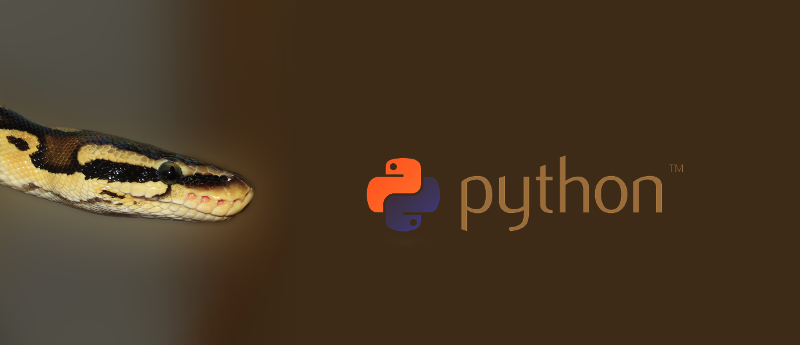
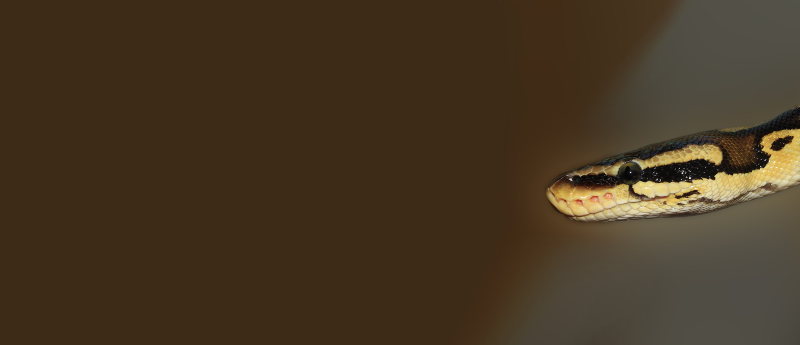
Updated title tags to be more flexible, changed top of the blog to be more readable

diff --git a/website/static/css/clean-blog.min.css b/website/static/css/clean-blog.min.css
@@ -2,4 +2,4 @@
  * Start Bootstrap - Clean Blog v4.0.0-beta (https://startbootstrap.com/template-overviews/clean-blog)
  * Copyright 2013-2017 Start Bootstrap
  * Licensed under MIT (https://github.com/BlackrockDigital/startbootstrap-clean-blog/blob/master/LICENSE)
- */body{font-size:20px;color:#333;font-family:Lora,'Times New Roman',serif}p{line-height:1.5;margin:30px 0}p a{text-decoration:underline}h1,h2,h3,h4,h5,h6{font-weight:800;font-family:'Open Sans','Helvetica Neue',Helvetica,Arial,sans-serif}a{color:#333;-webkit-transition:all .2s;-moz-transition:all .2s;transition:all .2s}a:focus,a:hover{color:#0085a1}a img:focus,a img:hover{cursor:zoom-in}blockquote{font-style:italic;color:#777}.section-heading{font-size:36px;font-weight:700;margin-top:60px}.caption{font-size:14px;font-style:italic;display:block;margin:0;padding:10px;text-align:center;border-bottom-right-radius:5px;border-bottom-left-radius:5px}::-moz-selection{color:#fff;background:#0085a1;text-shadow:none}::selection{color:#fff;background:#0085a1;text-shadow:none}img::selection{color:#fff;background:0 0}img::-moz-selection{color:#fff;background:0 0}body{-webkit-tap-highlight-color:#0085a1}#mainNav{position:absolute;border-bottom:1px solid #eee;background-color:#fff;font-family:'Open Sans','Helvetica Neue',Helvetica,Arial,sans-serif}#mainNav .navbar-brand{font-weight:800;color:#777}#mainNav .navbar-toggler{font-size:12px;font-weight:800;padding:13px;text-transform:uppercase;color:#777}#mainNav .navbar-nav>li.nav-item>a{font-size:12px;font-weight:800;letter-spacing:1px;text-transform:uppercase}@media only screen and (min-width:992px){#mainNav{border-bottom:1px solid transparent;background:0 0}#mainNav .navbar-brand{padding:15px 20px;color:#fff}#mainNav .navbar-brand:focus,#mainNav .navbar-brand:hover{color:rgba(255,255,255,.8)}#mainNav .navbar-nav>li.nav-item>a{padding:15px 20px;color:#fff}#mainNav .navbar-nav>li.nav-item>a:focus,#mainNav .navbar-nav>li.nav-item>a:hover{color:rgba(255,255,255,.8)}}@media only screen and (min-width:1170px){#mainNav{-webkit-transition:background-color .2s;-moz-transition:background-color .2s;transition:background-color .2s;-webkit-transform:translate3d(0,0,0);-moz-transform:translate3d(0,0,0);-ms-transform:translate3d(0,0,0);-o-transform:translate3d(0,0,0);transform:translate3d(0,0,0);-webkit-backface-visibility:hidden}#mainNav.is-fixed{position:fixed;top:-77px;-webkit-transition:-webkit-transform .2s;-moz-transition:-moz-transform .2s;transition:transform .2s;border-bottom:1px solid #fff;background-color:rgba(255,255,255,.9)}#mainNav.is-fixed .navbar-brand{color:#333}#mainNav.is-fixed .navbar-brand:focus,#mainNav.is-fixed .navbar-brand:hover{color:#0085a1}#mainNav.is-fixed .navbar-nav>li.nav-item>a{color:#333}#mainNav.is-fixed .navbar-nav>li.nav-item>a:focus,#mainNav.is-fixed .navbar-nav>li.nav-item>a:hover{color:#0085a1}#mainNav.is-visible{-webkit-transform:translate3d(0,100%,0);-moz-transform:translate3d(0,100%,0);-ms-transform:translate3d(0,100%,0);-o-transform:translate3d(0,100%,0);transform:translate3d(0,100%,0)}}header.masthead{margin-bottom:50px;background:no-repeat center center;background-color:#777;background-attachment:scroll;-webkit-background-size:cover;-moz-background-size:cover;-o-background-size:cover;background-size:cover}header.masthead .page-heading,header.masthead .post-heading,header.masthead .site-heading{padding:200px 0 150px;color:#fff}@media only screen and (min-width:768px){header.masthead .page-heading,header.masthead .post-heading,header.masthead .site-heading{padding:200px 0}}header.masthead .page-heading,header.masthead .site-heading{text-align:right}header.masthead .page-heading h1,header.masthead .site-heading h1{font-size:50px;margin-top:0}header.masthead .page-heading .subheading,header.masthead .site-heading .subheading{font-size:24px;font-weight:300;line-height:1.1;display:block;margin:10px 0 0;font-family:'Open Sans','Helvetica Neue',Helvetica,Arial,sans-serif}@media only screen and (min-width:768px){header.masthead .page-heading h1,header.masthead .site-heading h1{font-size:80px}}header.masthead .post-heading h1{font-size:35px}header.masthead .post-heading .meta,header.masthead .post-heading .subheading{line-height:1.1;display:block}header.masthead .post-heading .subheading{font-size:24px;font-weight:600;margin:10px 0 30px;font-family:'Open Sans','Helvetica Neue',Helvetica,Arial,sans-serif}header.masthead .post-heading .meta{font-size:20px;font-weight:300;font-style:italic;font-family:Lora,'Times New Roman',serif}header.masthead .post-heading .meta a{color:#fff}@media only screen and (min-width:768px){header.masthead .post-heading h1{font-size:55px}header.masthead .post-heading .subheading{font-size:30px}}.post-preview>a{color:#333}.post-preview>a:focus,.post-preview>a:hover{text-decoration:none;color:#0085a1}.post-preview>a>.post-title{font-size:30px;margin-top:30px;margin-bottom:10px}.post-preview>a>.post-subtitle{font-weight:300;margin:0 0 10px}.post-preview>.post-meta{font-size:18px;font-style:italic;margin-top:0;color:#777}.post-preview>.post-meta>a{text-decoration:none;color:#333}.post-preview>.post-meta>a:focus,.post-preview>.post-meta>a:hover{text-decoration:underline;color:#0085a1}@media only screen and (min-width:768px){.post-preview>a>.post-title{font-size:36px}}.floating-label-form-group{font-size:14px;position:relative;margin-bottom:0;padding-bottom:.5em;border-bottom:1px solid #eee}.floating-label-form-group input,.floating-label-form-group textarea{font-size:1.5em;position:relative;z-index:1;padding:0;resize:none;border:none;border-radius:0;background:0 0;box-shadow:none!important;font-family:Lora,'Times New Roman',serif}.floating-label-form-group input::-webkit-input-placeholder,.floating-label-form-group textarea::-webkit-input-placeholder{color:#777;font-family:Lora,'Times New Roman',serif}.floating-label-form-group label{font-size:.85em;line-height:1.764705882em;position:relative;z-index:0;top:2em;display:block;margin:0;-webkit-transition:top .3s ease,opacity .3s ease;-moz-transition:top .3s ease,opacity .3s ease;-ms-transition:top .3s ease,opacity .3s ease;transition:top .3s ease,opacity .3s ease;vertical-align:middle;vertical-align:baseline;opacity:0}.floating-label-form-group .help-block{margin:15px 0}.floating-label-form-group-with-value label{top:0;opacity:1}.floating-label-form-group-with-focus label{color:#0085a1}form .form-group:first-child .floating-label-form-group{border-top:1px solid #eee}footer{padding:50px 0 65px}footer .list-inline{margin:0;padding:0}footer .copyright{font-size:14px;margin-bottom:0;text-align:center}.btn{font-size:14px;font-weight:800;padding:15px 25px;letter-spacing:1px;text-transform:uppercase;border-radius:0;font-family:'Open Sans','Helvetica Neue',Helvetica,Arial,sans-serif}.btn-primary{color:#fff;border-color:#0085a1;background-color:#0085a1}.btn-primary.focus,.btn-primary:focus{color:#fff;border-color:#001c22;background-color:#005b6e}.btn-primary:hover{color:#fff;border-color:#005264;background-color:#005b6e}.btn-primary.active,.btn-primary:active,.open>.btn-primary.dropdown-toggle{color:#fff;border-color:#005264;background-color:#005b6e}.btn-primary.active.focus,.btn-primary.active:focus,.btn-primary.active:hover,.btn-primary:active.focus,.btn-primary:active:focus,.btn-primary:active:hover,.open>.btn-primary.dropdown-toggle.focus,.open>.btn-primary.dropdown-toggle:focus,.open>.btn-primary.dropdown-toggle:hover{color:#fff;border-color:#001c22;background-color:#003d4a}.btn-primary.active,.btn-primary:active,.open>.btn-primary.dropdown-toggle{background-image:none}.btn-primary.disabled.focus,.btn-primary.disabled:focus,.btn-primary.disabled:hover,.btn-primary[disabled].focus,.btn-primary[disabled]:focus,.btn-primary[disabled]:hover,fieldset[disabled] .btn-primary.focus,fieldset[disabled] .btn-primary:focus,fieldset[disabled] .btn-primary:hover{border-color:#0085a1;background-color:#0085a1}.btn-primary .badge{color:#0085a1;background-color:#fff}.btn-lg{font-size:16px;padding:25px 35px}.btn-default:focus,.btn-default:hover{color:#fff;border:1px solid #0085a1;background-color:#0085a1}
+ */body{font-size:20px;color:#333;font-family:Lora,'Times New Roman',serif}p{line-height:1.5;margin:30px 0}p a{text-decoration:underline}h1,h2,h3,h4,h5,h6{font-weight:800;font-family:'Open Sans','Helvetica Neue',Helvetica,Arial,sans-serif}a{color:#333;-webkit-transition:all .2s;-moz-transition:all .2s;transition:all .2s}a:focus,a:hover{color:#0085a1}a img:focus,a img:hover{cursor:zoom-in}blockquote{font-style:italic;color:#777}.section-heading{font-size:36px;font-weight:700;margin-top:60px}.caption{font-size:14px;font-style:italic;display:block;margin:0;padding:10px;text-align:center;border-bottom-right-radius:5px;border-bottom-left-radius:5px}::-moz-selection{color:#fff;background:#0085a1;text-shadow:none}::selection{color:#fff;background:#0085a1;text-shadow:none}img::selection{color:#fff;background:0 0}img::-moz-selection{color:#fff;background:0 0}body{-webkit-tap-highlight-color:#0085a1}#mainNav{position:absolute;border-bottom:1px solid #eee;background-color:#fff;font-family:'Open Sans','Helvetica Neue',Helvetica,Arial,sans-serif}#mainNav .navbar-brand{font-weight:800;color:#777}#mainNav .navbar-toggler{font-size:12px;font-weight:800;padding:13px;text-transform:uppercase;color:#777}#mainNav .navbar-nav>li.nav-item>a{font-size:12px;font-weight:800;letter-spacing:1px;text-transform:uppercase}@media only screen and (min-width:992px){#mainNav{border-bottom:1px solid transparent;background:0 0}#mainNav .navbar-brand{padding:15px 20px;color:#fff}#mainNav .navbar-brand:focus,#mainNav .navbar-brand:hover{color:rgba(255,255,255,.8)}#mainNav .navbar-nav>li.nav-item>a{padding:15px 20px;color:#fff}#mainNav .navbar-nav>li.nav-item>a:focus,#mainNav .navbar-nav>li.nav-item>a:hover{color:rgba(255,255,255,.8)}}@media only screen and (min-width:1170px){#mainNav{-webkit-transition:background-color .2s;-moz-transition:background-color .2s;transition:background-color .2s;-webkit-transform:translate3d(0,0,0);-moz-transform:translate3d(0,0,0);-ms-transform:translate3d(0,0,0);-o-transform:translate3d(0,0,0);transform:translate3d(0,0,0);-webkit-backface-visibility:hidden}#mainNav.is-fixed{position:fixed;top:-77px;-webkit-transition:-webkit-transform .2s;-moz-transition:-moz-transform .2s;transition:transform .2s;border-bottom:1px solid #fff;background-color:rgba(255,255,255,.9)}#mainNav.is-fixed .navbar-brand{color:#333}#mainNav.is-fixed .navbar-brand:focus,#mainNav.is-fixed .navbar-brand:hover{color:#0085a1}#mainNav.is-fixed .navbar-nav>li.nav-item>a{color:#333}#mainNav.is-fixed .navbar-nav>li.nav-item>a:focus,#mainNav.is-fixed .navbar-nav>li.nav-item>a:hover{color:#0085a1}#mainNav.is-visible{-webkit-transform:translate3d(0,100%,0);-moz-transform:translate3d(0,100%,0);-ms-transform:translate3d(0,100%,0);-o-transform:translate3d(0,100%,0);transform:translate3d(0,100%,0)}}header.masthead{margin-bottom:50px;background:no-repeat center center;background-color:#777;background-attachment:scroll;-webkit-background-size:cover;-moz-background-size:cover;-o-background-size:cover;background-size:cover}header.masthead .page-heading,header.masthead .post-heading,header.masthead .site-heading{padding:200px 0 150px;color:#fff}@media only screen and (min-width:768px){header.masthead .page-heading,header.masthead .post-heading,header.masthead .site-heading{padding:100px 0}}header.masthead .page-heading,header.masthead .site-heading{text-align:right}header.masthead .page-heading h1,header.masthead .site-heading h1{font-size:50px;margin-top:0}header.masthead .page-heading .subheading,header.masthead .site-heading .subheading{font-size:24px;font-weight:300;line-height:1.1;display:block;margin:10px 0 0;font-family:'Open Sans','Helvetica Neue',Helvetica,Arial,sans-serif}@media only screen and (min-width:768px){header.masthead .page-heading h1,header.masthead .site-heading h1{font-size:80px}}header.masthead .post-heading h1{font-size:35px}header.masthead .post-heading .meta,header.masthead .post-heading .subheading{line-height:1.1;display:block}header.masthead .post-heading .subheading{font-size:24px;font-weight:600;margin:10px 0 30px;font-family:'Open Sans','Helvetica Neue',Helvetica,Arial,sans-serif}header.masthead .post-heading .meta{font-size:20px;font-weight:300;font-style:italic;font-family:Lora,'Times New Roman',serif}header.masthead .post-heading .meta a{color:#fff}@media only screen and (min-width:768px){header.masthead .post-heading h1{font-size:55px}header.masthead .post-heading .subheading{font-size:30px}}.post-preview>a{color:#333}.post-preview>a:focus,.post-preview>a:hover{text-decoration:none;color:#0085a1}.post-preview>a>.post-title{font-size:30px;margin-top:30px;margin-bottom:10px}.post-preview>a>.post-subtitle{font-weight:300;margin:0 0 10px}.post-preview>.post-meta{font-size:18px;font-style:italic;margin-top:0;color:#777}.post-preview>.post-meta>a{text-decoration:none;color:#333}.post-preview>.post-meta>a:focus,.post-preview>.post-meta>a:hover{text-decoration:underline;color:#0085a1}@media only screen and (min-width:768px){.post-preview>a>.post-title{font-size:36px}}.floating-label-form-group{font-size:14px;position:relative;margin-bottom:0;padding-bottom:.5em;border-bottom:1px solid #eee}.floating-label-form-group input,.floating-label-form-group textarea{font-size:1.5em;position:relative;z-index:1;padding:0;resize:none;border:none;border-radius:0;background:0 0;box-shadow:none!important;font-family:Lora,'Times New Roman',serif}.floating-label-form-group input::-webkit-input-placeholder,.floating-label-form-group textarea::-webkit-input-placeholder{color:#777;font-family:Lora,'Times New Roman',serif}.floating-label-form-group label{font-size:.85em;line-height:1.764705882em;position:relative;z-index:0;top:2em;display:block;margin:0;-webkit-transition:top .3s ease,opacity .3s ease;-moz-transition:top .3s ease,opacity .3s ease;-ms-transition:top .3s ease,opacity .3s ease;transition:top .3s ease,opacity .3s ease;vertical-align:middle;vertical-align:baseline;opacity:0}.floating-label-form-group .help-block{margin:15px 0}.floating-label-form-group-with-value label{top:0;opacity:1}.floating-label-form-group-with-focus label{color:#0085a1}form .form-group:first-child .floating-label-form-group{border-top:1px solid #eee}footer{padding:50px 0 65px}footer .list-inline{margin:0;padding:0}footer .copyright{font-size:14px;margin-bottom:0;text-align:center}.btn{font-size:14px;font-weight:800;padding:15px 25px;letter-spacing:1px;text-transform:uppercase;border-radius:0;font-family:'Open Sans','Helvetica Neue',Helvetica,Arial,sans-serif}.btn-primary{color:#fff;border-color:#0085a1;background-color:#0085a1}.btn-primary.focus,.btn-primary:focus{color:#fff;border-color:#001c22;background-color:#005b6e}.btn-primary:hover{color:#fff;border-color:#005264;background-color:#005b6e}.btn-primary.active,.btn-primary:active,.open>.btn-primary.dropdown-toggle{color:#fff;border-color:#005264;background-color:#005b6e}.btn-primary.active.focus,.btn-primary.active:focus,.btn-primary.active:hover,.btn-primary:active.focus,.btn-primary:active:focus,.btn-primary:active:hover,.open>.btn-primary.dropdown-toggle.focus,.open>.btn-primary.dropdown-toggle:focus,.open>.btn-primary.dropdown-toggle:hover{color:#fff;border-color:#001c22;background-color:#003d4a}.btn-primary.active,.btn-primary:active,.open>.btn-primary.dropdown-toggle{background-image:none}.btn-primary.disabled.focus,.btn-primary.disabled:focus,.btn-primary.disabled:hover,.btn-primary[disabled].focus,.btn-primary[disabled]:focus,.btn-primary[disabled]:hover,fieldset[disabled] .btn-primary.focus,fieldset[disabled] .btn-primary:focus,fieldset[disabled] .btn-primary:hover{border-color:#0085a1;background-color:#0085a1}.btn-primary .badge{color:#0085a1;background-color:#fff}.btn-lg{font-size:16px;padding:25px 35px}.btn-default:focus,.btn-default:hover{color:#fff;border:1px solid #0085a1;background-color:#0085a1}

diff --git a/website/templates/index.html b/website/templates/index.html
@@ -3,6 +3,7 @@
 
 {% block content %}
 <!-- Project One -->
+{% if view.posts %}
 {% for post in view.posts %}
 <div class="row">
     <div class="col-md-3">
@@ -10,8 +11,9 @@
             <img class="img-fluid rounded mb-3 mb-md-0" src="{% static 'img/blank.png' %}">
         </a>
     </div>
+    <!-- post/{{ post.slug }} -->
     <div class="col-md-8 post-preview">
-        <h3 class="post-title"><a href="post/{{ post.slug }}">{{ post.title }}</a></h3>
+        <h3 class="post-title"><a href="{% url 'blog:post' post.slug post.pk %}">{{ post.title }}</a></h3>
         <div class="small">
             Posted in: {{ post.category }}, {{ post.date | date }} by {{ post.author }}
         </div>
@@ -24,5 +26,8 @@
     </div>
     <!-- /.row -->
     {% endfor %}
+{% else %}
+<p>No posts found!</p>
+{% endif %}
 </div>
 {% endblock content %}

diff --git a/website/templates/layouts/base.html b/website/templates/layouts/base.html
@@ -29,7 +29,7 @@
     <!-- Navigation -->
     <nav class="navbar navbar-expand-lg navbar-light fixed-top" id="mainNav">
       <div class="container">
-        <img src="{% static 'img/butterfly.png' %}" style="width:70px;"><a class="navbar-brand" href="{% url 'blog:index' %}" style="font-weight:normal;">{% block title %} MOTYL.ORG {% endblock title %}</a>
+        <a class="navbar-brand" href="{% url 'blog:index' %}" style="font-weight:normal;">{% block title %} MOTYL.ORG {% endblock title %}</a>
         <button class="navbar-toggler navbar-toggler-right" type="button" data-toggle="collapse" data-target="#navbarResponsive" aria-controls="navbarResponsive" aria-expanded="false" aria-label="Toggle navigation">
           Menu
           <i class="fa fa-bars"></i>

diff --git a/website/templates/post.html b/website/templates/post.html
@@ -1,8 +1,12 @@
 {% extends 'layouts/base.html' %}
+{% block head_title %} {{ block.super }} | {{ object.title }} {% endblock head_title %}
 
 {% block content %}
 <!-- linkback -->
-<a href="{% url 'blog:index' %}">aaa</a>
+<ol class="breadcrumb">
+  <li class="breadcrumb-item"><a href="{% url 'blog:index' %}">Home</a></li>
+  <li class="breadcrumb-item active">{{ object.title }}</li>
+</ol>
 <h3>{{ object.title }}</h3>
 <h5><b>Category:</b> {{ object.category }}, <b>Date:</b> {{ object.date }}</h5>
 <p>
